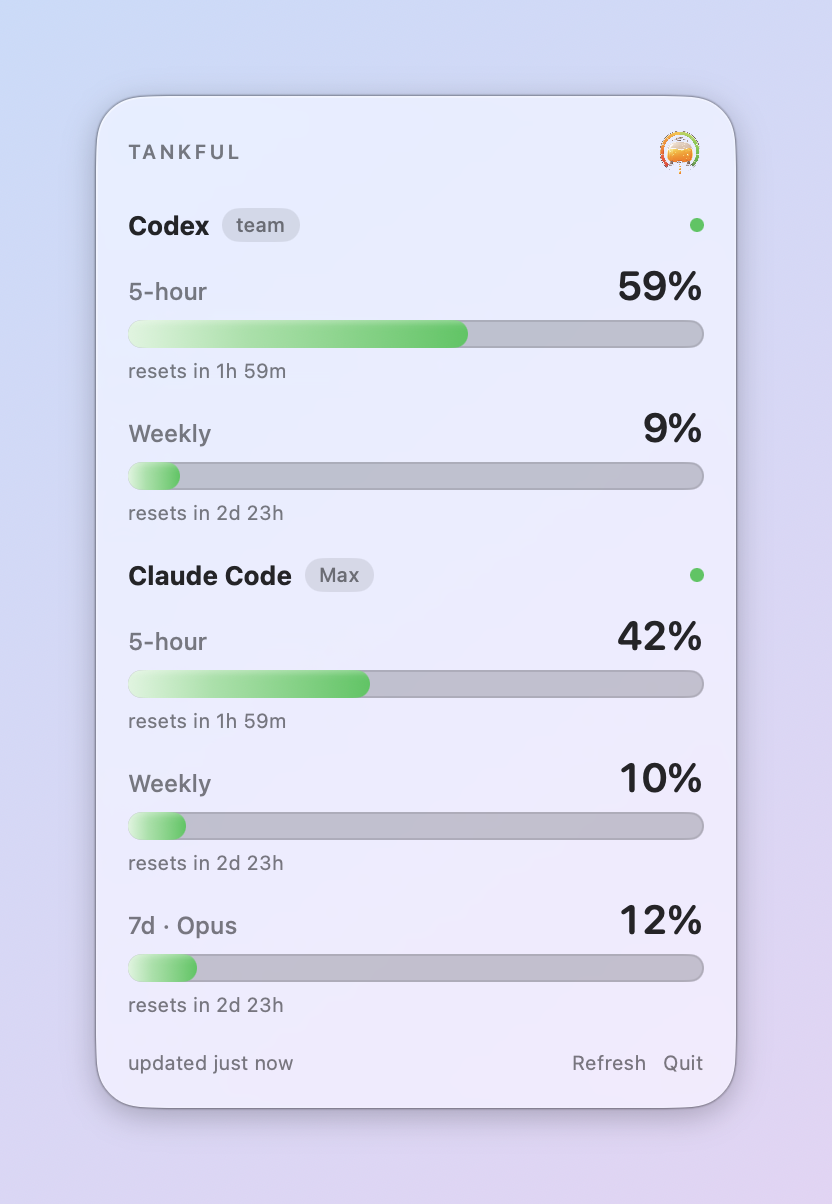
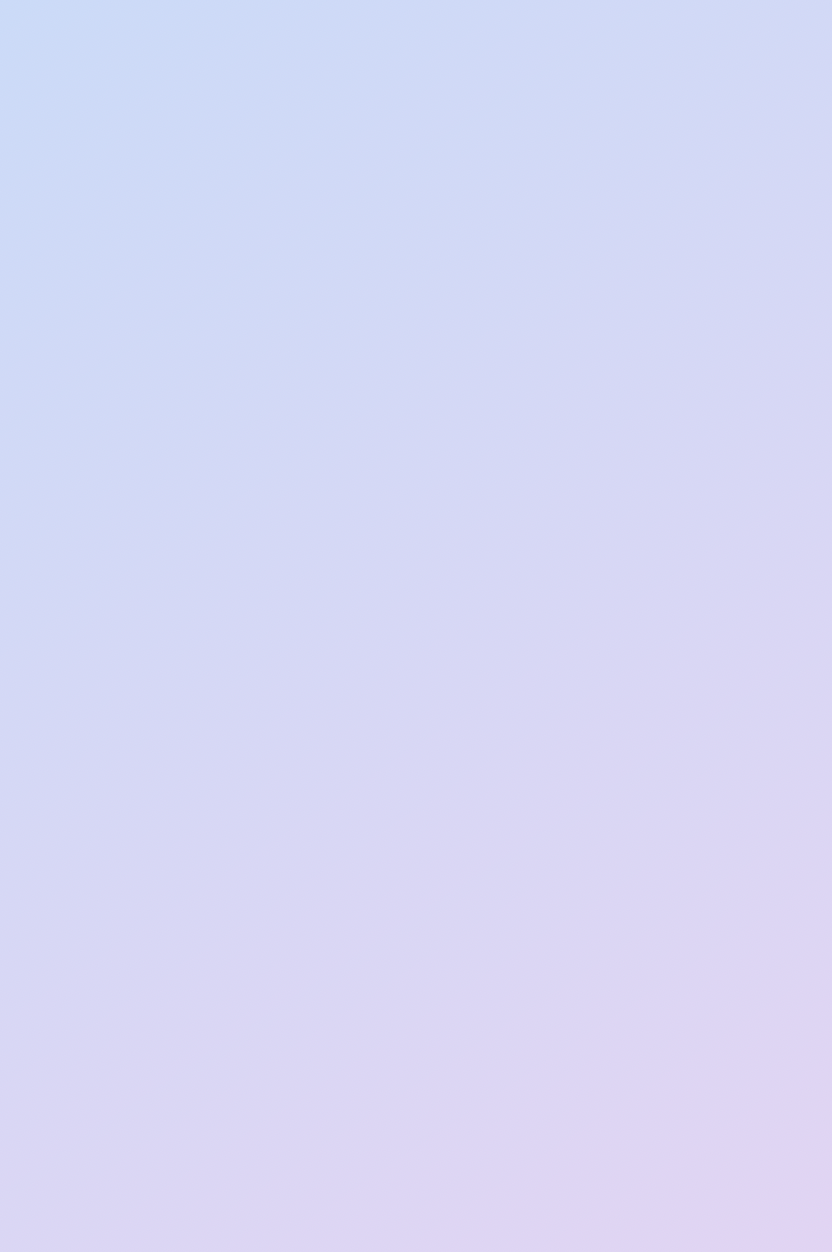
feat: add a launch-at-login toggle
SMAppService keeps the checkbox in sync with the system's own login-item
state instead of a stored preference that can drift from it.

diff --git a/Sources/TankfulApp/Views/LaunchAtLoginToggle.swift b/Sources/TankfulApp/Views/LaunchAtLoginToggle.swift
@@ -1,0 +1,33 @@
+import ServiceManagement
+import SwiftUI
+
+/// Registers the app as a login item through SMAppService, so the state shown is always
+/// the system's own answer rather than a stored preference that can drift from it.
+struct LaunchAtLoginToggle: View {
+    @State private var isEnabled = SMAppService.mainApp.status == .enabled
+
+    var body: some View {
+        Toggle("Launch at login", isOn: binding)
+            .toggleStyle(.checkbox)
+            .font(.footnote)
+            .foregroundStyle(.secondary)
+    }
+
+    private var binding: Binding<Bool> {
+        Binding(
+            get: { isEnabled },
+            set: { wantsEnabled in
+                do {
+                    if wantsEnabled {
+                        try SMAppService.mainApp.register()
+                    } else {
+                        try SMAppService.mainApp.unregister()
+                    }
+                } catch {
+                    // The re-read below reports what actually happened.
+                }
+                isEnabled = SMAppService.mainApp.status == .enabled
+            }
+        )
+    }
+}
